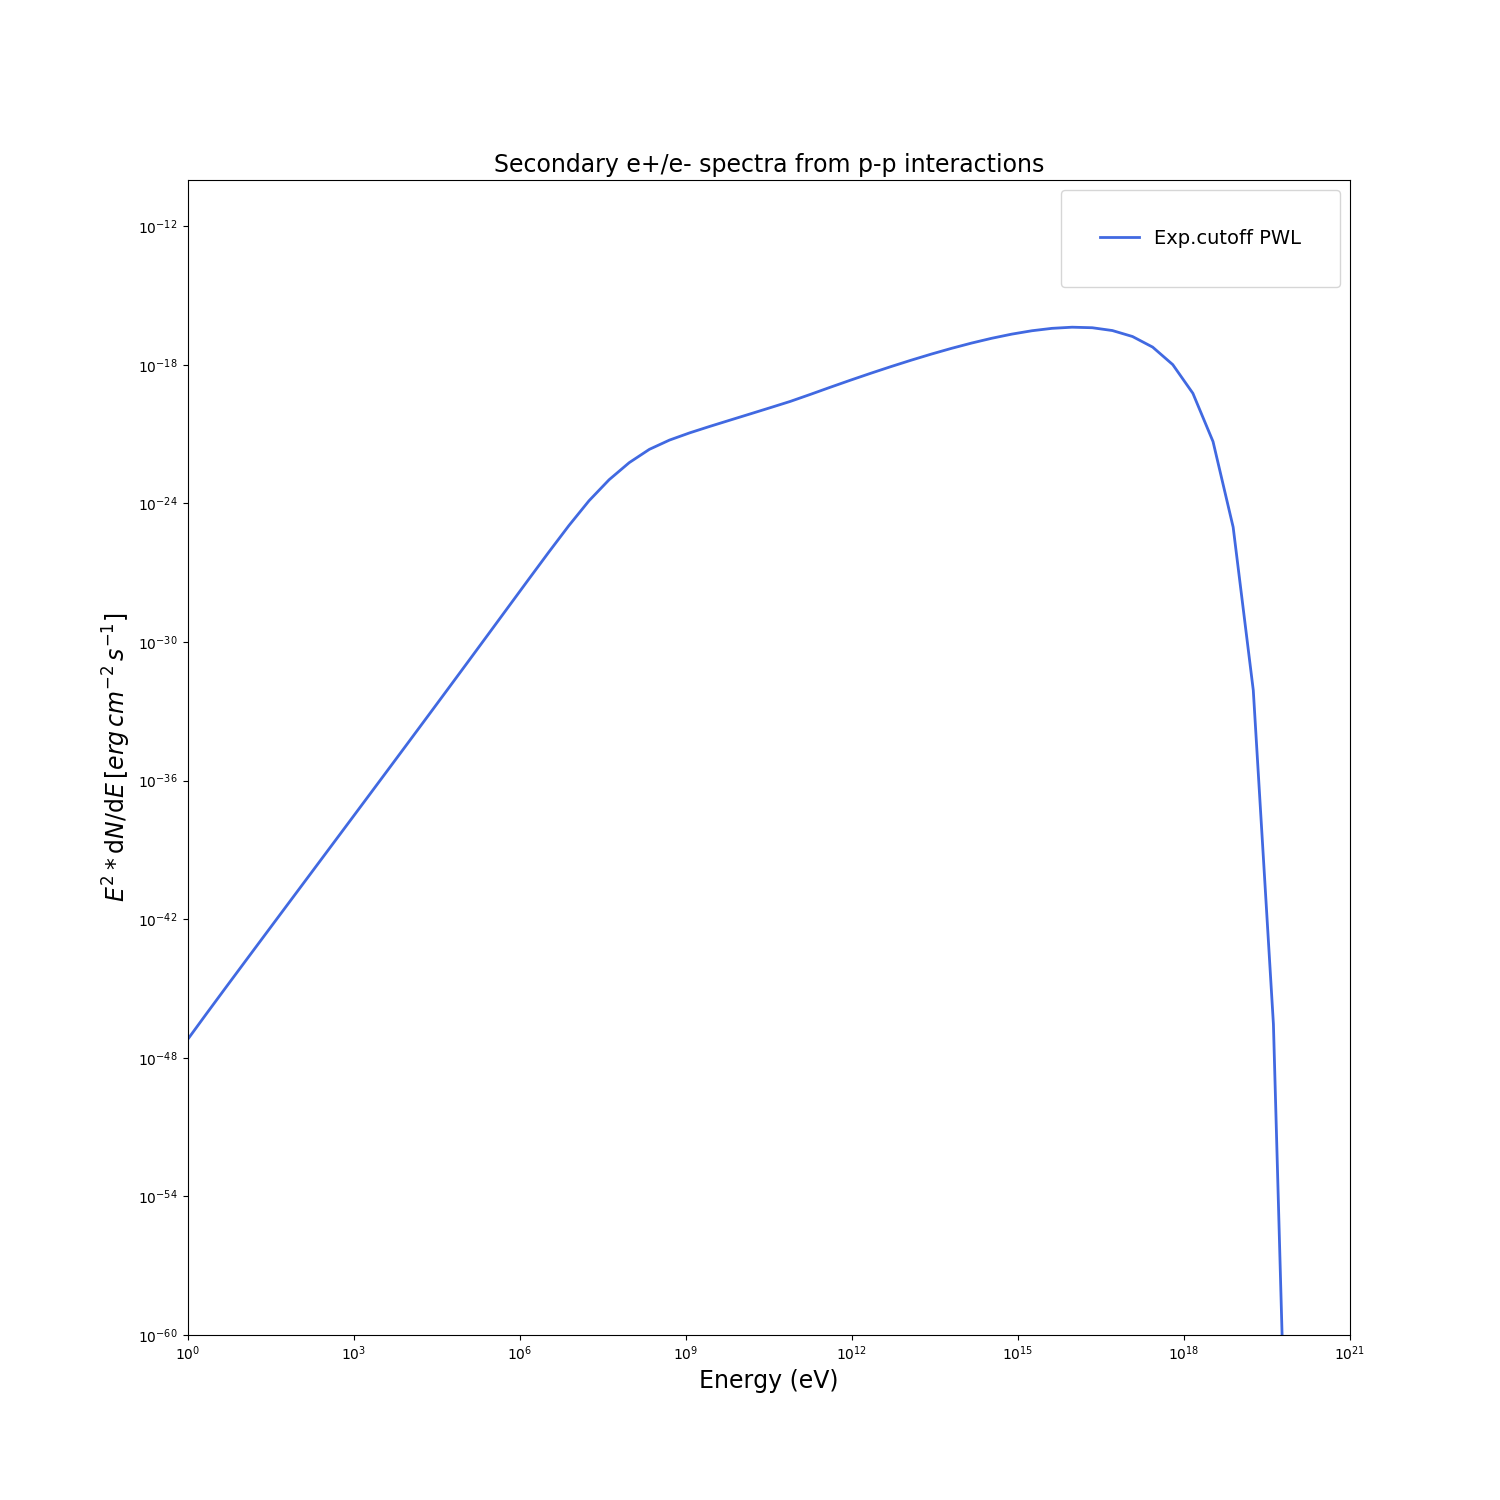
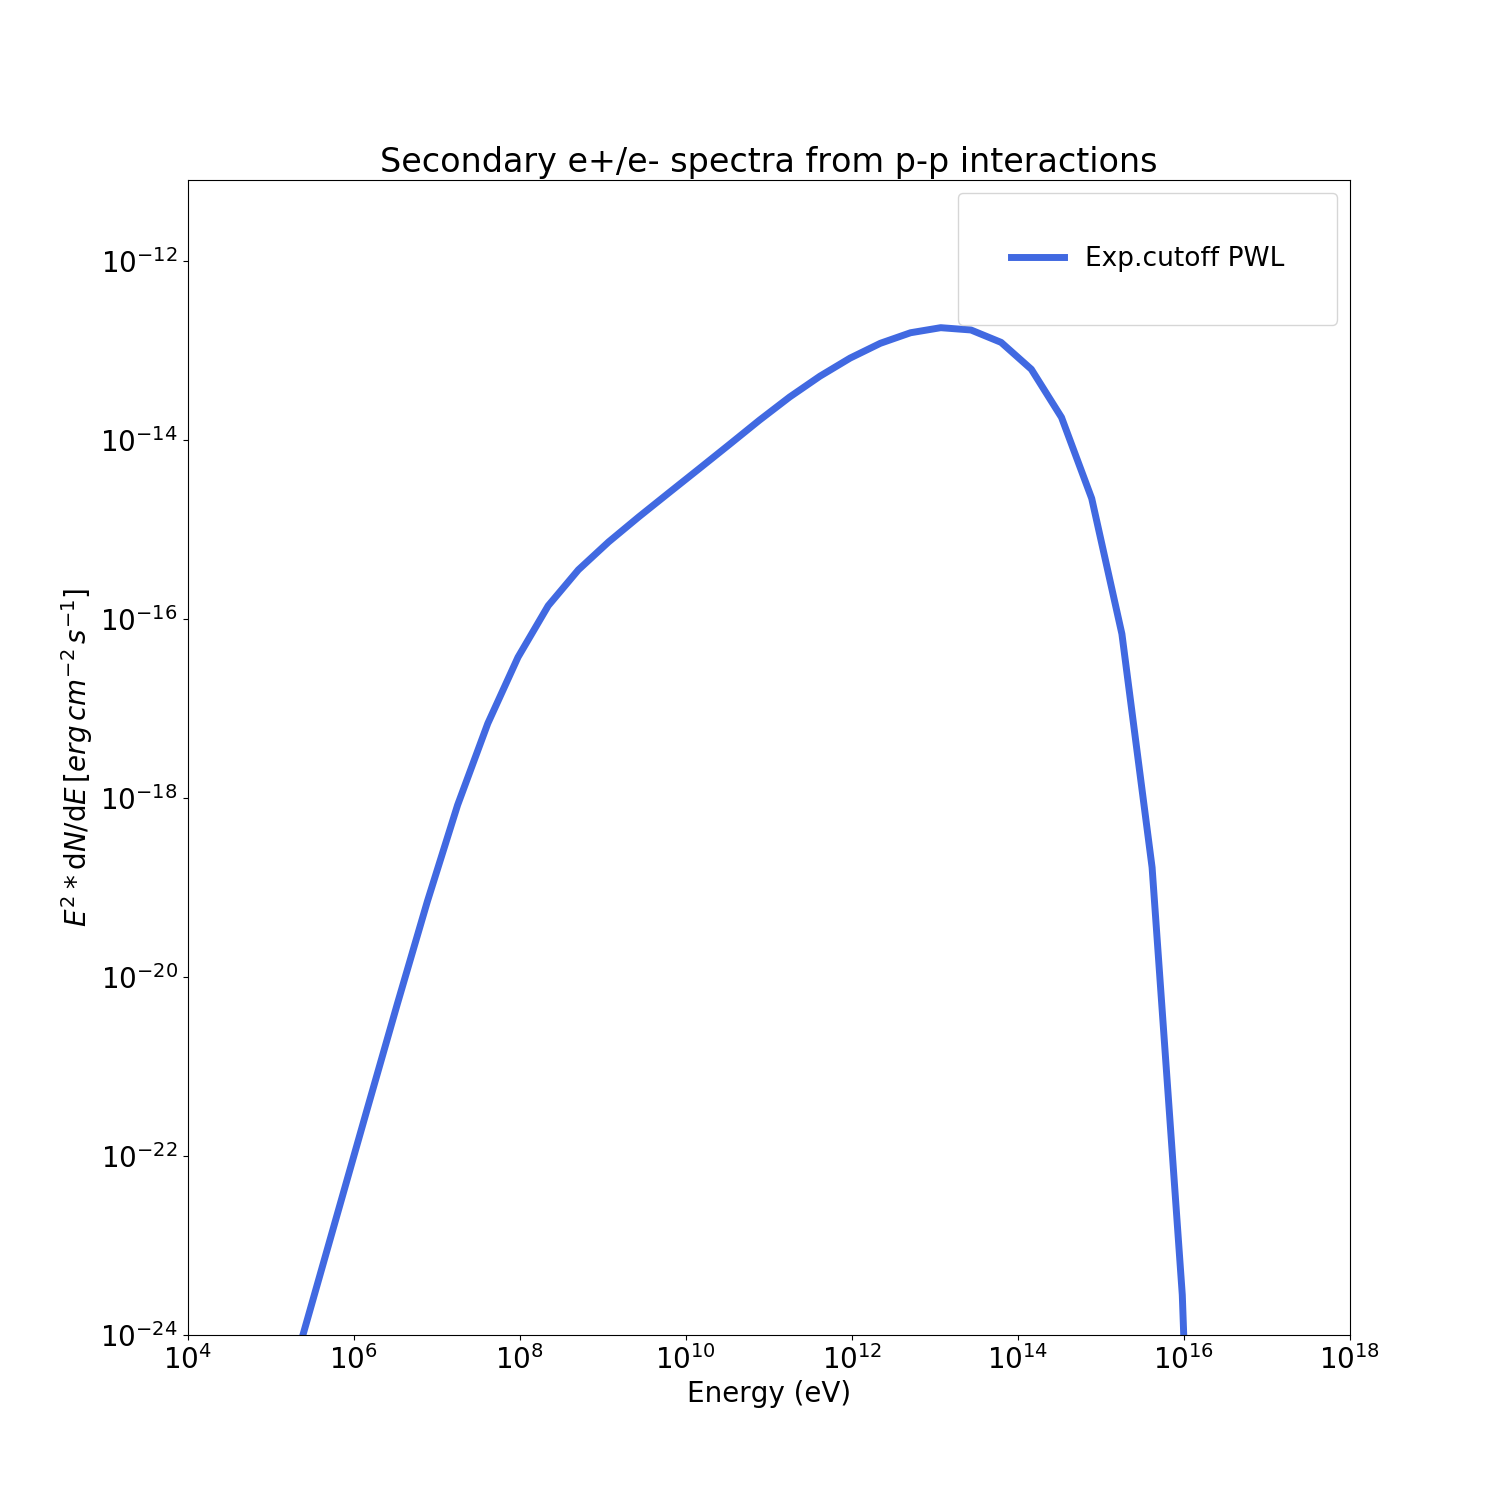
Changing the figure definitions in pp

diff --git a/trial_pp_secondaries/sec_elecpp.py b/trial_pp_secondaries/sec_elecpp.py
@@ -130,12 +130,12 @@ class PionDecay_leptons(PionDecayKelner06):
 
 if __name__ == '__main__':
 
-    pdist1 = ECPL(4.3e33 / u.eV, 1e3 * u.GeV, 1.3, 8e5 * u.TeV)
+    pdist1 = ECPL(4.3e33 / u.eV, 1e3 * u.GeV, 1.3, 7e2 * u.TeV)
     ppi1 = PionDecay_leptons(pdist1, B=10 * u.G)
 
     specfrq = np.logspace(14, 50, 100) * u.Hz
     specen = specfrq.to(u.eV, equivalencies=u.spectral())
-    dist = 1 * u.Mpc
+    dist = 1 * u.kpc
 
     pds = [ppi1, ]
     ls = ['-', ]
@@ -148,14 +148,16 @@ if __name__ == '__main__':
             'weight': 'normal', 'size': 16.0}
     for pd, ls, cs, lb in zip(pds, ls, colors, labels):
         sed = pd.sed(specen, dist)
-        ax.loglog(specen, sed, lw=2,
+        ax.loglog(specen, sed, lw=5,
                   color=cs, ls=ls, label=lb)
-    ax.set_xlabel('Energy (eV)', fontsize=17)
+    ax.set_xlabel('Energy (eV)', fontsize=20)
     ax.set_ylabel(
-        r'$E^{2}*{\rm d}N/{\rm d}E\,[erg\,cm^{-2}\,s^{-1}]$', fontsize=17)
-    ax.set_title('Secondary e+/e- spectra from p-p interactions', fontsize=17)
-    ax.set_ylim(1e-60, 1e-10)
-    ax.set_xlim(1e0, 1e21)
-    plt.legend(loc='best', borderpad=2, fontsize=14)
+        r'$E^{2}*{\rm d}N/{\rm d}E\,[erg\,cm^{-2}\,s^{-1}]$', fontsize=20)
+    ax.set_title('Secondary e+/e- spectra from p-p interactions', fontsize=24)
+    ax.set_ylim(1e-24, 8e-12)
+    ax.set_xlim(1e4, 1e18)
+    ax.xaxis.set_tick_params(labelsize=20)
+    ax.yaxis.set_tick_params(labelsize=20)
+    plt.legend(loc='best', borderpad=2, fontsize=19)
     plt.savefig('pp_second_leptons.png')
     plt.show()
